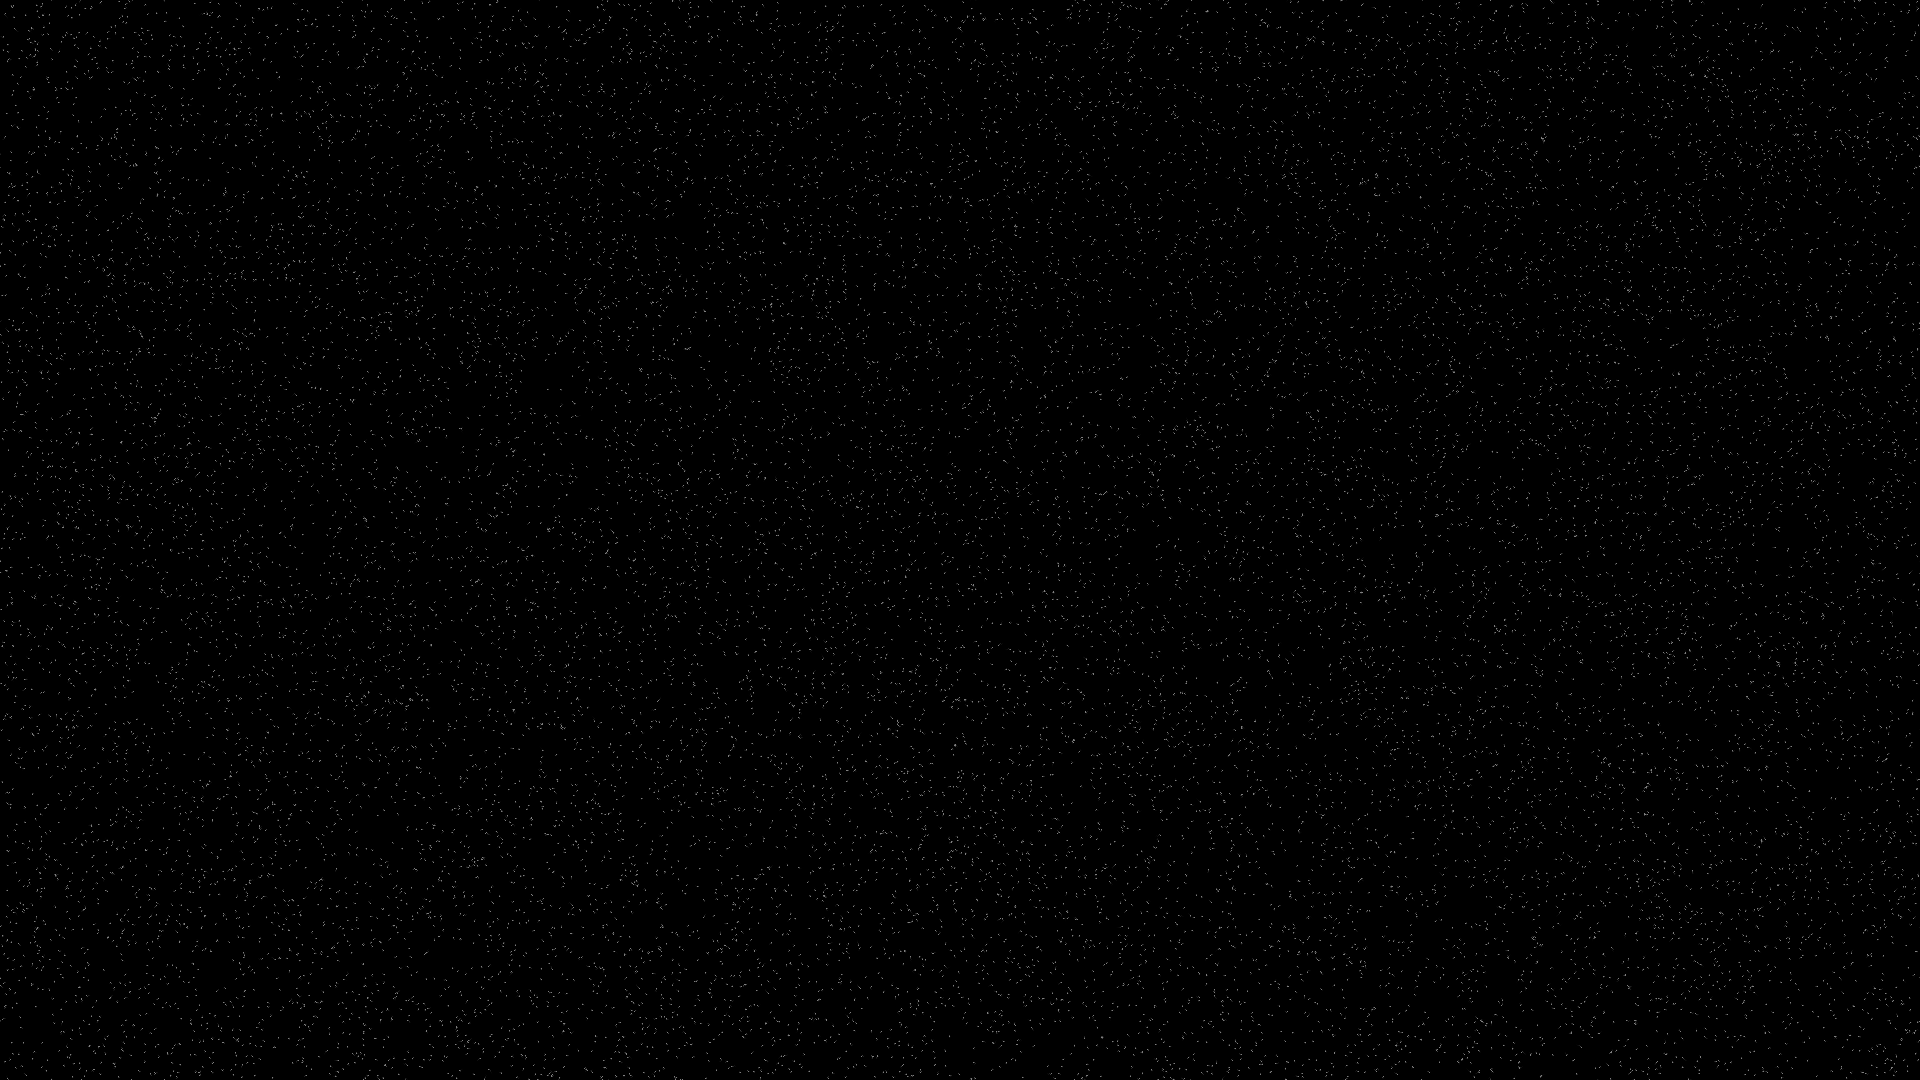
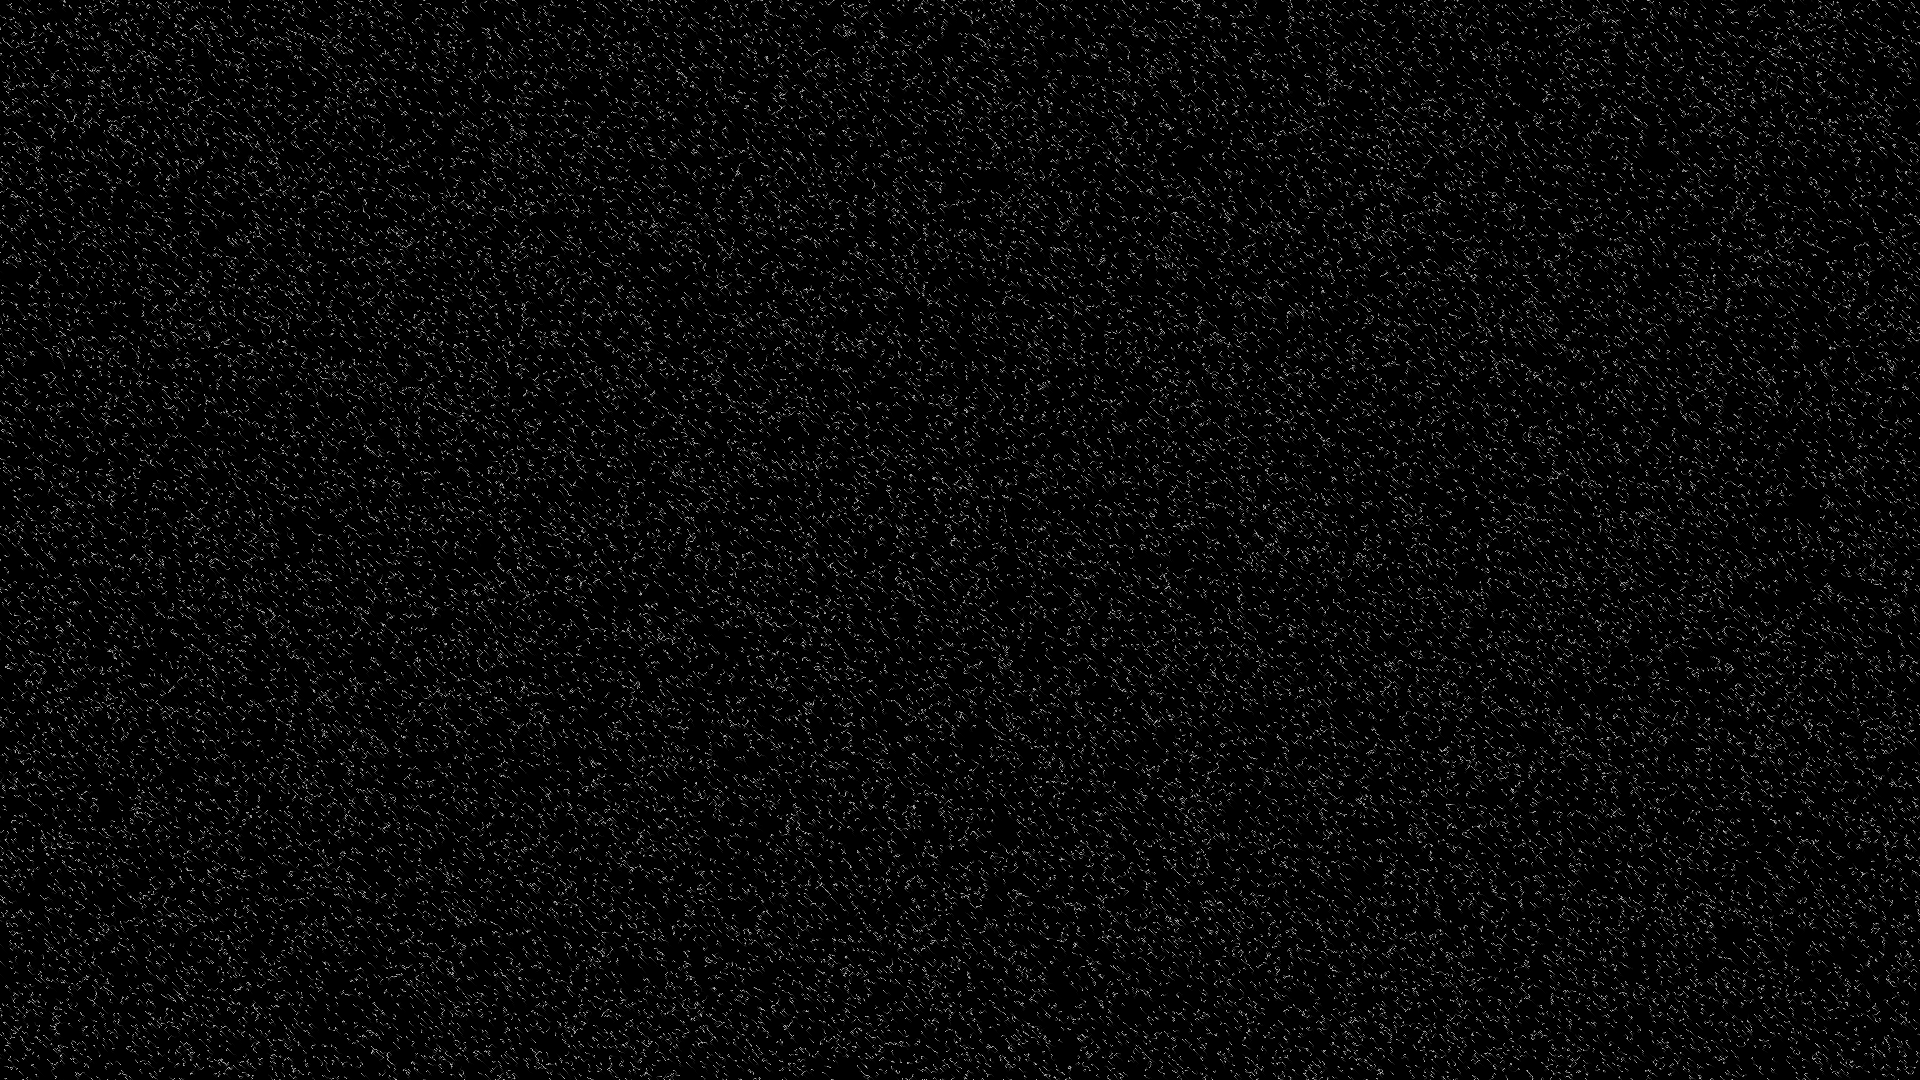
Adding Agent Movement Optimizations

Changed region(s): [[0.0, 0.0, 1.0, 1.0], [0.6562, 0.275, 0.6875, 0.3056]]

diff --git a/main.py b/main.py
@@ -1,7 +1,6 @@
 import multiprocessing
 import random
 import time
-
 import numpy as np
 from scipy import ndimage
 from PIL import Image as im
@@ -9,31 +8,33 @@ from functools import partial
 
 height = 1080
 width = 1920
-number_of_agents = 20000
+number_of_agents = 40000
 step_size = 2
-simulation_length = 20
-simulation_report_step_size = 10
-mutation_probability = 0.6
+simulation_length = 100
+simulation_report_step_size = 2
+simulation_decay_factor = 0.7
+mutation_probability = 0.2
+mutation_probability_unknown = 0.6
 multiprocessing_pool_size = 8
+
 
 
 class Agent:
     def __init__(self, x, y):
         self.pos = np.array([x, y])
-        self.dir = np.array([0, 0])
         self.X = 0
         self.Y = 1
-
         self.moves = np.array(
             [[-1, -1],
-             [-1, 0],
-             [-1, 1],
              [0, -1],
-             [0, 1],
              [1, -1],
              [1, 0],
-             [1, 1]]
+             [1, 1],
+             [0, 1],
+             [-1, 1],
+             [-1, 0]]
         )
+        self.dir = random.randrange(0, 8)
 
     def legalize_position(self, pos):
         if pos[self.X] < 0:
@@ -54,11 +55,15 @@ class Agent:
         best = 0
         move_id_best = 0
         changed = False
-        for move_id in range(self.moves.shape[0]):
-            sense_point = self.legalize_position(np.array(self.pos + self.moves[move_id]))
+
+        for sense_direction_id_modifier in [-1, 0, 1]:
+            sense_direction_id = (self.dir + sense_direction_id_modifier) % (len(self.moves) - 1)
+            sense_tmp = np.add(self.pos, self.moves[sense_direction_id])
+            sense_point = self.legalize_position(np.array(sense_tmp))
+
             if best < image[sense_point[self.X]][sense_point[self.Y]]:
                 best = image[sense_point[self.X]][sense_point[self.Y]]
-                move_id_best = move_id
+                move_id_best = sense_direction_id
 
         if best > 0:
             changed = True
@@ -74,9 +79,13 @@ class Agent:
     def move(self, image):
         result = self.get_best_path(image)
         if result[1]:
-            self.pos = self.pos + self.moves[self.mutate_move(result[0], mutation_probability)]
+            move_id = self.mutate_move(result[0], mutation_probability)
+            self.pos = self.pos + self.moves[move_id]
+            self.dir = move_id
         else:
-            self.pos = self.pos + self.moves[self.mutate_move(result[0], 1.1)]
+            move_id = self.mutate_move(result[0], mutation_probability_unknown)
+            self.pos = self.pos + self.moves[move_id]
+            self.dir = move_id
 
         self.pos = self.legalize_position(self.pos)
 
@@ -108,18 +117,19 @@ def main():
         mp_pool.join()
         agents = result
         end_time = time.time()
-        average_time_processing += (end_time-start_time)
+        average_time_processing += (end_time - start_time)
 
         start_time = time.time()
         for agent in agents:
             raw_image_array = draw_agent(agent, raw_image_array)
 
-        #raw_image_array = ndimage.gaussian_filter(raw_image_array, sigma=0.25) # slower but fancy
-        raw_image_array = raw_image_array // 2 # faster but less fancy and more dangerous
+        # raw_image_array = ndimage.gaussian_filter(raw_image_array, sigma=0.5)  # slower but fancy
+        # raw_image_array = raw_image_array // 2  # faster but less fancy and more dangerous
+        raw_image_array = np.multiply(raw_image_array, simulation_decay_factor)
         end_time = time.time()
         average_time_drawing += (end_time - start_time)
-        
-        if (i + 1) % simulation_report_step_size == 0:
+
+        if i % simulation_report_step_size == 0:
             print("Simulation Progress (length):", i)
             print("Simulation Prozessing Average (seconds):", average_time_processing / simulation_report_step_size)
             print("Simulation Drawing Average (seconds):", average_time_drawing / simulation_report_step_size)
@@ -128,7 +138,7 @@ def main():
             average_time_drawing = 0
 
     # creating image object of above array
-    data = im.fromarray(raw_image_array)
+    data = im.fromarray(raw_image_array.astype(np.uint8))
 
     # saving the final output as a PNG file
     data.save('gfg_dummy_pic.png')
